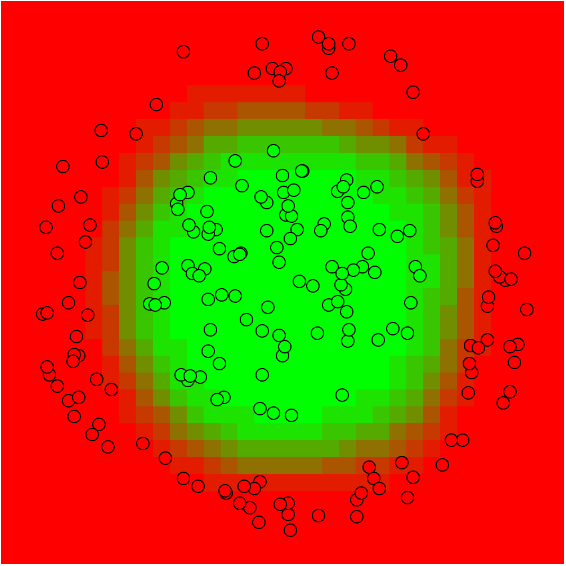
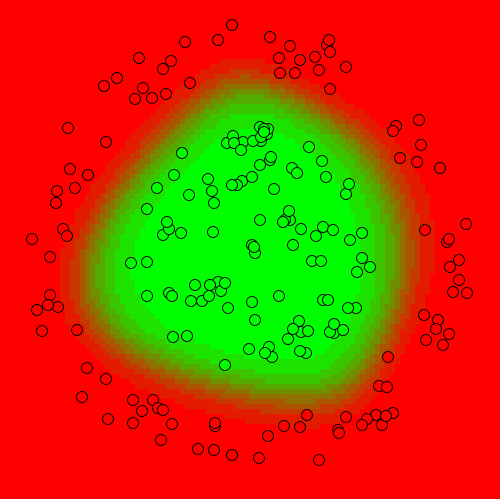
Update visualization

diff --git a/examples/XOR/app.js b/examples/XOR/app.js
@@ -1,9 +1,15 @@
 let resolution = 5,
 	model = 0,
 	pred = 0,
-	pred_shape = 0;
+	pred_shape = 0,
+	X_train = [],
+	X_train_shape = [],
+	Y_train = [],
+	Y_train_shape = [],
+	xs = [],
+	xs_shape = [];
 function setup () {
-	createCanvas(700, 700);
+	createCanvas(500, 500);
 	let inputs = [];
 	let rows = width / resolution;
 	let cols = height / resolution;
@@ -15,30 +21,27 @@ function setup () {
 			inputs.push(x2);
 		}
 	}
-	let xs = inputs;
-	let xs_shape = [ xs.length / 2, 2 ];
+	xs = inputs;
+	xs_shape = [ xs.length / 2, 2 ];
 	// let XY = [ [ 0, 0 ], [ 0, 1 ], [ 1, 0 ], [ 1, 1 ] ];
-	let X_train = [ 0, 0, 1, 1,
-		              0, 1, 0, 1 ];
-	let X_train_shape = [ 2, 4 ];
+	X_train = [ 0, 0, 1, 1,
+		          0, 1, 0, 1 ];
+	X_train_shape = [ 2, 4 ];
 	// let Y_train = [ 0, 1, 1, 0 ]; Wanted Outputs
-	let Y_train = [ 1, 0, 0, 1 ]; // Flipped b/c p5js axis are flipped
-	let Y_train_shape = [ 1, 4 ];
+	Y_train = [ 1, 0, 0, 1 ]; // Flipped b/c p5js axis are flipped
+	Y_train_shape = [ 1, 4 ];
 
 	model = new NeuralNetwork(1);
 	model.addDenseLayer(5, X_train_shape[0], 'xavier', 'sigmoid');
 	model.addDenseLayer(3, 0, 'xavier', 'sigmoid');
 	model.addDenseLayer(1, 0, 'xavier', 'sigmoid');
-
-	for (let i = 0; i < 5000; i++) {
-		model.train(1, X_train, X_train_shape, Y_train, Y_train_shape);
-		if (model.epoch % 100 == 0) console.log(model.cost);
-	}
-	console.log('Done!');
-	[ pred, pred_shape ] = model.predict(xs, xs_shape[0], xs_shape[1]);
 }
-function draw () {
+function draw() {
+	model.train(50, X_train, X_train_shape, Y_train, Y_train_shape);
+	console.log(`Cost at epoch ${model.epoch}: ${model.cost}`);
+	[ pred, pred_shape ] = model.predict(xs, xs_shape[0], xs_shape[1]);
 	background(0);
+	strokeWeight(0);
 	let index = 0;
 	for (let i = 0; i < width / resolution; i++) {
 		for (let j = 0; j < height / resolution; j++) {

diff --git a/examples/Classification/app.js b/examples/Classification/app.js
@@ -1,4 +1,4 @@
-let resolution = 15,
+let resolution = 5,
 	model = 0,
 	pred = 0,
 	pred_shape = 0,
